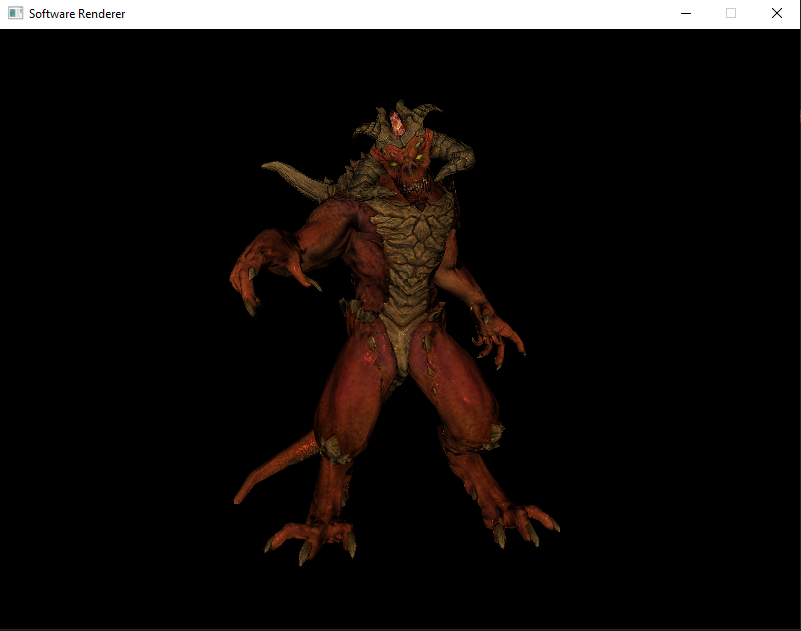
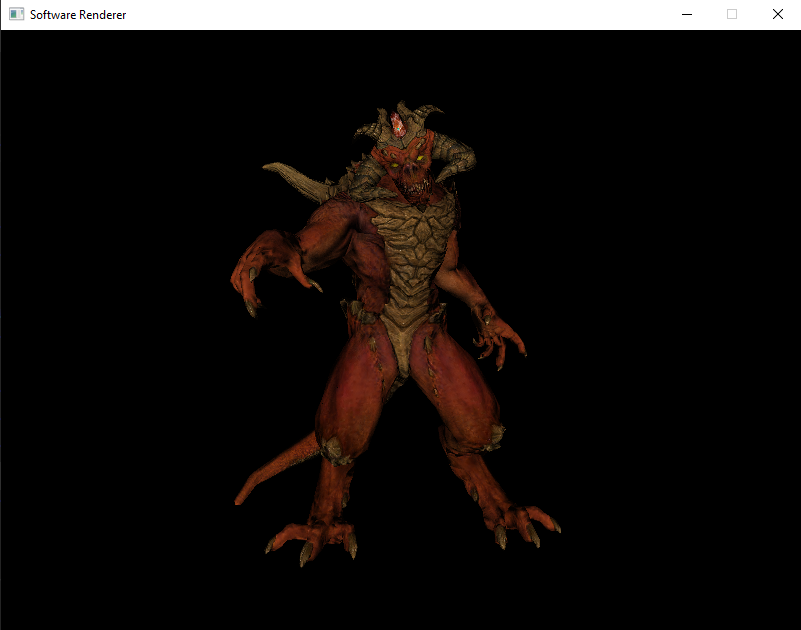
fix specular mapping

diff --git a/src/shader.cc b/src/shader.cc
@@ -145,32 +145,35 @@ void PhongShader::Fragment(Uint32& pixel) {
 
   float diff = std::max(0.f, normal * light_dir);
 
-  // Specular light intensity
-  Uint32 pixel_specular =
-      GetPixel(this->normal_texture_, this->uv_.u, this->uv_.v);
-  Uint8 specular_r = 0;
-  Uint8 trash = 0;
-  SDL_GetRGB(pixel_specular, this->normal_texture_->format, &specular_r, &trash,
-             &trash);
-  float s = std::max(0.f, static_cast<float>(specular_r));
-  Vec3f reflect = Reflect(light_dir, normal).Normalize();
-  Vec3f view_dir = (this->eye_ - this->fragment_).Normalize();
-  float spec = std::pow(std::max(view_dir * reflect, 0.f), s);
-
   // Sampling from diffuse texture
-  Uint32 p = GetPixel(this->diffuse_texture_, this->uv_.u, this->uv_.v);
+  Uint32 pixel_diffuse =
+      GetPixel(this->diffuse_texture_, this->uv_.u, this->uv_.v);
   SDL_PixelFormat* format = this->diffuse_texture_->format;
 
-  float intensity = ambient + diff + spec;
+  float intensity = ambient + diff;
   // R, G, B channels
-  Uint8 R = static_cast<Uint8>(
-      (((p & format->Rmask) >> format->Rshift) << format->Rloss) * intensity);
-  Uint8 G = static_cast<Uint8>(
-      (((p & format->Gmask) >> format->Gshift) << format->Gloss) * intensity);
-  Uint8 B = static_cast<Uint8>(
-      (((p & format->Bmask) >> format->Bshift) << format->Bloss) * intensity);
+  Uint8 R_diff = 0;
+  Uint8 G_diff = 0;
+  Uint8 B_diff = 0;
+  SDL_GetRGB(pixel_diffuse, format, &R_diff, &G_diff, &B_diff);
 
-  pixel = SDL_MapRGB(format, R, G, B);
+  // Specular light intensity
+  Vec3f reflect = Reflect(light_dir, normal).Normalize();
+  Vec3f view_dir = (this->eye_ - this->fragment_).Normalize();
+  float spec = std::pow(std::max(view_dir * reflect, 0.f), 32.f);
+
+  Uint32 pixel_specular =
+      GetPixel(this->specular_texture_, this->uv_.u, this->uv_.v);
+  Uint8 R_spec = 0;
+  Uint8 G_spec = 0;
+  Uint8 B_spec = 0;
+  SDL_GetRGB(pixel_specular, this->specular_texture_->format, &R_spec, &G_spec,
+             &B_spec);
+
+  pixel =
+      SDL_MapRGB(format, static_cast<Uint8>(R_diff * intensity + R_spec * spec),
+                 static_cast<Uint8>(G_diff * intensity + G_spec * spec),
+                 static_cast<Uint8>(B_diff * intensity + B_spec * spec));
 }
 
 // Phong Shading wit Normal Mapping in Tangent Space
@@ -217,32 +220,35 @@ void NormalMappingShader::Fragment(Uint32& pixel) {
 
   float diff = std::max(0.f, normal * light_dir);
 
-  // Specular light intensity
-  Uint32 pixel_specular =
-      GetPixel(this->normal_texture_, this->uv_.u, this->uv_.v);
-  Uint8 specular_r = 0;
-  Uint8 trash = 0;
-  SDL_GetRGB(pixel_specular, this->normal_texture_->format, &specular_r, &trash,
-             &trash);
-  float s = std::max(0.f, static_cast<float>(specular_r));
-  Vec3f reflect = Reflect(light_dir, normal).Normalize();
-  Vec3f view_dir = (view_pos - fragment_pos).Normalize();
-  float spec = std::pow(std::max(view_dir * reflect, 0.f), s);
-
   // Sampling from diffuse texture
-  Uint32 p = GetPixel(this->diffuse_texture_, this->uv_.u, this->uv_.v);
+  Uint32 pixel_diffuse =
+      GetPixel(this->diffuse_texture_, this->uv_.u, this->uv_.v);
   SDL_PixelFormat* format = this->diffuse_texture_->format;
 
-  float intensity = ambient + diff + spec;
+  float intensity = ambient + diff;
   // R, G, B channels
-  Uint8 R = static_cast<Uint8>(
-      (((p & format->Rmask) >> format->Rshift) << format->Rloss) * intensity);
-  Uint8 G = static_cast<Uint8>(
-      (((p & format->Gmask) >> format->Gshift) << format->Gloss) * intensity);
-  Uint8 B = static_cast<Uint8>(
-      (((p & format->Bmask) >> format->Bshift) << format->Bloss) * intensity);
+  Uint8 R_diff = 0;
+  Uint8 G_diff = 0;
+  Uint8 B_diff = 0;
+  SDL_GetRGB(pixel_diffuse, format, &R_diff, &G_diff, &B_diff);
 
-  pixel = SDL_MapRGB(format, R, G, B);
+  // Specular light intensity
+  Vec3f reflect = Reflect(light_dir, normal).Normalize();
+  Vec3f view_dir = (this->eye_ - this->fragment_).Normalize();
+  float spec = std::pow(std::max(view_dir * reflect, 0.f), 32.f);
+
+  Uint32 pixel_specular =
+      GetPixel(this->specular_texture_, this->uv_.u, this->uv_.v);
+  Uint8 R_spec = 0;
+  Uint8 G_spec = 0;
+  Uint8 B_spec = 0;
+  SDL_GetRGB(pixel_specular, this->specular_texture_->format, &R_spec, &G_spec,
+             &B_spec);
+
+  pixel =
+      SDL_MapRGB(format, static_cast<Uint8>(R_diff * intensity + R_spec * spec),
+                 static_cast<Uint8>(G_diff * intensity + G_spec * spec),
+                 static_cast<Uint8>(B_diff * intensity + B_spec * spec));
 }
 
 Uint32 GetPixel(SDL_Surface* surface, int x, int y) {
